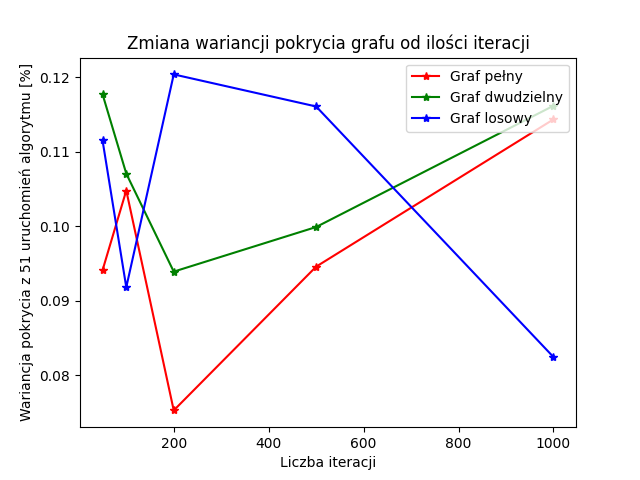
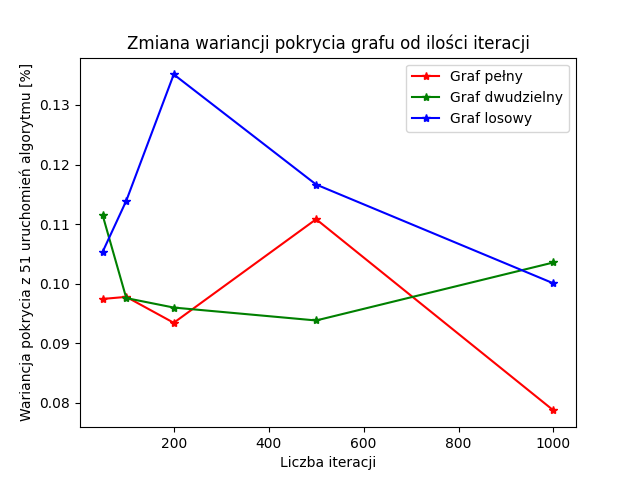
Eksperymenty i wyniki

diff --git a/Lab2/src/experiments.py b/Lab2/src/experiments.py
@@ -8,6 +8,8 @@ from geneticAlgorithm import GeneticAlgorithm
 
 # numberOfIteration = [50,100,200,500,1000]
 numberOfIteration = [20, 40, 60, 80, 100]
+MUT = 0.01
+POPULACJA = 100
 
 """
 Graf pełny
@@ -50,13 +52,13 @@ def expetiment_for_BipartiteGraph(num_of_experiment, num_generations, population
 
 
 """
-Graf z połową krawędzi
+Graf losowy
 """
 def expetiment_for_RandomGraph(num_of_experiment, num_generations, population_size, selection_size,mutation_probability):
     result_for_BipGraph = []
     result_cover = []
+    random_cover_per = random.uniform(0.3, 0.5)
     for i in range(num_of_experiment):
-        random_cover_per = random.uniform(0.5, 0.7)
         random_graph_1_nodes, random_graph_1_edges = create_random_graph(25, random_cover_per)
         number_of_all_edges_R = len(random_graph_1_edges)
         GeneticAlgorithmInit_Random = GeneticAlgorithm(edges=random_graph_1_edges, nodes=random_graph_1_nodes,
@@ -77,7 +79,7 @@ def exp_BG():
     std_dev_all = []
     for num in numberOfIteration:
         G_exp1_all, G_exp1_cover = expetiment_for_BipartiteGraph(num_of_experiment=51, num_generations=num,
-                                                                 population_size=30, selection_size=30, mutation_probability = 0.01)
+                                                                 population_size=POPULACJA, selection_size=POPULACJA, mutation_probability = MUT)
         std_dev = np.std(G_exp1_cover)
         min_cover = min(G_exp1_cover)
         max_cover = max(G_exp1_cover)
@@ -103,7 +105,7 @@ def exp_CG():
     std_dev_all = []
     for num in numberOfIteration:
         CG_exp1_all, CG_exp1_cover = expetiment_for_CompleteGraph(num_of_experiment=51, num_generations=num,
-                                                                  population_size=30, selection_size=30, mutation_probability = 0.01)
+                                                                  population_size=POPULACJA, selection_size=POPULACJA, mutation_probability = MUT)
         std_dev = np.std(CG_exp1_cover)
         min_cover = min(CG_exp1_cover)
         max_cover = max(CG_exp1_cover)
@@ -128,7 +130,7 @@ def exp_RG():
     std_dev_all = []
     for num in numberOfIteration:
         RG_exp1_all, RG_exp1_cover = expetiment_for_RandomGraph(num_of_experiment=51, num_generations=num,
-                                                                  population_size=30, selection_size=30, mutation_probability = 0.01)
+                                                                  population_size=POPULACJA, selection_size=POPULACJA, mutation_probability = MUT)
         std_dev = np.std(RG_exp1_cover)
         min_cover = min(RG_exp1_cover)
         max_cover = max(RG_exp1_cover)
